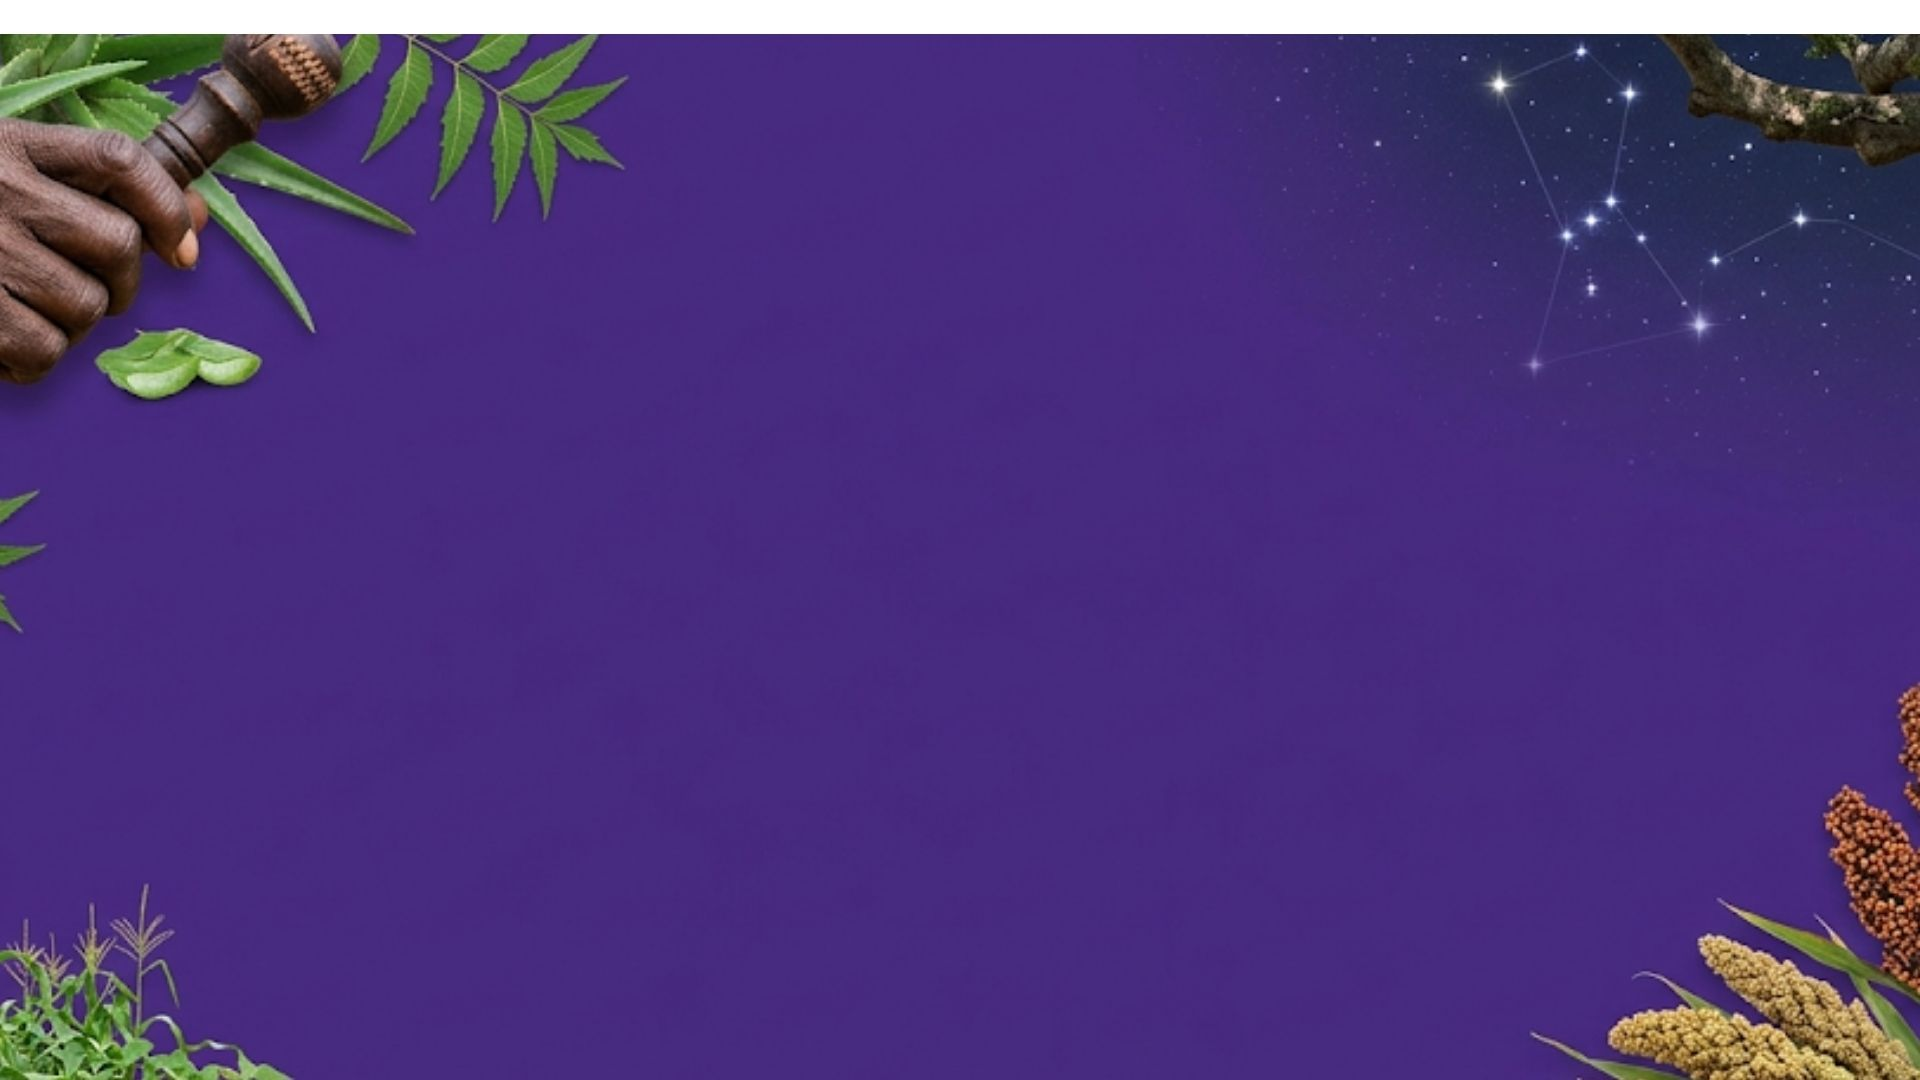
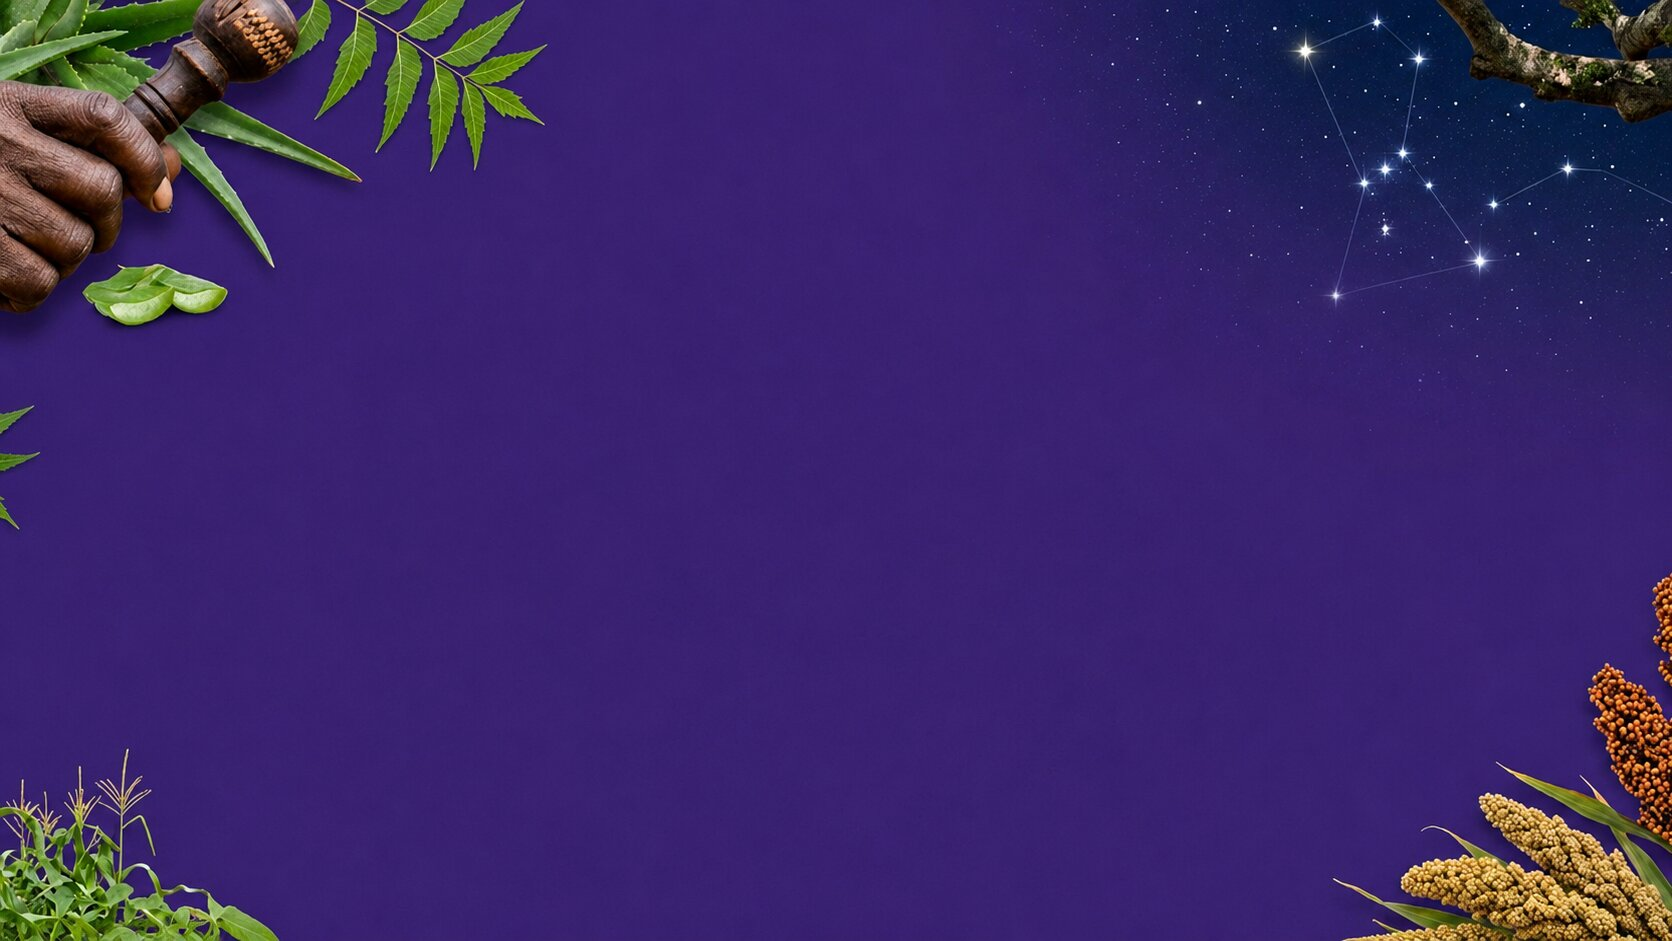
Substrand2:Complete

diff --git a/Strand 3 People and Relationships/Indigenous Knowledge Systems in African Societies/Lesson3/ACTIVITY1/css/styles.css b/Strand 3 People and Relationships/Indigenous Knowledge Systems in African Societies/Lesson3/ACTIVITY1/css/styles.css
@@ -732,32 +732,22 @@ body {
   .option-button { font-size: 1rem; padding: 1rem;}
   
   .completion-btn {
-    font-family: var(--header-font);
-    background: #fbb03b;
-    color: #fff;
-    font-weight: 900;
-    font-size: clamp(1.3rem, 2.5vmin, 2rem);
-    border: 3px solid #fff;
-    border-radius: 3rem;
-    padding: clamp(0.7rem, 1.5vmin, 0.75rem) clamp(1.25rem, 3vmin, 2rem);
-    cursor: pointer;
-    transition: all 0.2s;
-    box-shadow: 0 4px 8px rgba(0, 0, 0, 0.2);
-    text-shadow: 0 2px 0 #b88b2a;
-    text-decoration: none;
-    min-width: 140px;
+    padding: 0.5rem 1.5rem;
   }
-         #completion-image {
-        width: 70%;
-  }
+   #completion-image {
+        width: 60%;
+    }
 }
 @media (max-width: 991px) and (max-height: 345px) {
-      .scenario-story {
+    .scenario-story {
         font-size: 1.3rem;
     }
-        .option-button {
+    .option-button {
         font-size: 1.2rem;
         padding: 1rem;
+    }
+    #completion-image {
+        width: 51%;
     }
 }
 @media (max-width: 768px) {
@@ -793,6 +783,9 @@ body {
         padding: 0.9rem;
     }
         
+    #completion-image {
+    width: 64%;
+}
 }
 @media (max-width:991px) and (min-height:500px) {
     #completion-image {
@@ -804,5 +797,9 @@ body {
         .option-button {
         font-size: 0.9rem;
         padding: 0.7rem;
+    }
+    #both-matched .drag-item {
+      font-size: 0.8rem;
+      padding:0.2rem;
     }
 }

diff --git a/Strand 3 People and Relationships/Indigenous Knowledge Systems in African Societies/Lesson3/ACTIVITY3/css/styles.css b/Strand 3 People and Relationships/Indigenous Knowledge Systems in African Societies/Lesson3/ACTIVITY3/css/styles.css
@@ -627,8 +627,8 @@ body {
   flex-direction: column;
   justify-content: center;
   align-items: center;
-  gap: 1rem;
   padding: 0.5rem;
+  gap: 0.5rem;
 }
 
 .completion-title-banner {
@@ -749,7 +749,7 @@ body {
   font-family: var(--header-font);
   color: #fff;
   font-weight: 900;
-  font-size: clamp(0.9rem, 2.5vmin, 1.2rem);
+  font-size: clamp(1.1rem, 2.5vmin, 1.2rem);
   border: 3px solid #fff;
   border-radius: 3rem;
   padding: clamp(0.5rem, 1.5vmin, 0.75rem) clamp(1.25rem, 3vmin, 2rem);
@@ -829,6 +829,15 @@ body {
   #takeaways-table td {
     padding: 8px;
   }
+  .completion-btn {
+    font-size: 1.1rem;
+    padding: 0.5rem 1.5rem;
+  }
+  #completion-image {
+    width: 78%;}
+  .venn-workspace {
+    padding:0.2rem;
+  }
 }
 @media (max-width: 991px) and (max-height: 499px) {
   #takeaways-overlay .modal {
@@ -839,6 +848,7 @@ body {
 @media (max-width: 768px) {
   .venn-workspace {
     grid-template-columns: 140px 1fr 140px;
+    padding:0.2rem;
   }
   .drag-item {
     font-size: 1.15rem;
@@ -850,6 +860,9 @@ body {
   #completion-overlay .modal {
     padding: 1rem;
   }
+      #completion-image {
+        width: 74%;
+    }
 }
 
 @media (max-width: 650px) {
@@ -878,4 +891,12 @@ body {
   .completion-buttons {
     flex-direction: column;
   }
+}
+
+@media (width<=991px) and (height>=500px) {
+   #both-matched .drag-item {
+      font-size: 0.8rem;
+      padding:0.2rem;
+    }
+  
 }

diff --git a/Strand 3 People and Relationships/Indigenous Knowledge Systems in African Societies/Lesson4/ACTIVITY2/css/styles.css b/Strand 3 People and Relationships/Indigenous Knowledge Systems in African Societies/Lesson4/ACTIVITY2/css/styles.css
@@ -114,9 +114,8 @@ button {
   font-size: 3.2rem;
   font-family: var(--header-font);
   font-weight: 600;
-}    .completion-image-container {
-        width: 55%;
-    }
+} 
+
 
 .start-button {
   background: var(--secondary-color);
@@ -432,12 +431,15 @@ button {
   font-size: 1.1rem;
   font-weight: 500;
   color: var(--text-color-dark);
-  line-height: 1.5;
+  line-height: 1.2;
   resize: none;
-  padding: 0.75rem 1rem;
+  padding: 0.45rem 0.75rem;
   -webkit-user-select: auto;
   user-select: auto;
   transition: border-color 0.2s;
+}
+.journal-textarea::-webkit-scrollbar{
+  display: none;
 }
 
 .journal-textarea:focus {
@@ -691,7 +693,7 @@ button {
   justify-content: center;
   align-items: center;
   width: 100%;
-  max-width: 650px;
+  max-width: 800px;
   overflow: hidden;
   box-shadow: 0 10px 20px rgba(0, 0, 0, 0.3);
 }
@@ -853,7 +855,7 @@ button {
     font-size: 3vmin;
   }
   .completion-image-container {
-    width: 45%;
+    width: 63%;
   }
 
   #bottom-controls {
@@ -891,8 +893,7 @@ button {
 }
 @media (max-width:768px) {
     .completion-image-container {
-        width: 55%;
-    }
+        width: 58%;}
     
 }
 @media (max-width: 480px) {
@@ -935,7 +936,7 @@ button {
 
 @media(max-width:991px) and (min-height:500px){
     .completion-image-container {
-        width: 51%;
+        width: 54%;
     }
 }
 

diff --git a/Strand 3 People and Relationships/Indigenous Knowledge Systems in African Societies/Lesson2/ACTIVITY2/css/styles.css b/Strand 3 People and Relationships/Indigenous Knowledge Systems in African Societies/Lesson2/ACTIVITY2/css/styles.css
@@ -336,7 +336,7 @@ body {
   border: 2px solid #e2e8f0;
   border-radius: 1rem;
   padding: clamp(0.4rem, 1.2vmin, 0.8rem);
-  font-size: clamp(0.95rem, 1.5vmin, 1.1rem);
+  font-size: clamp(1.05rem, 1.5vmin, 1.1rem);
   font-weight: 600;
   color: var(--text-color-dark);
   display: flex;
@@ -435,7 +435,7 @@ body {
   border-radius: 1.25rem;
   text-align: center;
   width: 90%;
-  max-width: 600px;
+  max-width: 700px;
   animation: slideIn 0.4s cubic-bezier(0.175, 0.885, 0.32, 1.275);
   position: relative;
   box-shadow: 0 20px 40px rgba(0, 0, 0, 0.3);
@@ -444,7 +444,7 @@ body {
 @keyframes fadeIn { from { opacity: 0; } to { opacity: 1; } }
 @keyframes slideIn { from { transform: translateY(30px) scale(0.95); opacity: 0; } to { transform: translateY(0) scale(1); opacity: 1; } }
 
-.modal h2 { font-size: 2.2rem; font-weight: 600; margin-bottom: 1.5rem; font-family: var(--header-font); }
+.modal h2 { font-size: 2.2rem; font-weight: 600; margin-bottom: .5rem; font-family: var(--header-font); }
 .modal p, .modal li { font-size: 1.2rem; line-height: 1.4; color: var(--text-color-dark); }
 
 #activity-intro-overlay .modal { border-top: 8px solid var(--primary-color); }
@@ -453,8 +453,8 @@ body {
 
 #instructions-overlay .modal { border-top: 8px solid var(--primary-color); }
 #instructions-overlay .modal h2 { color: var(--primary-color); }
-#instructions-overlay .modal ol { text-align: left; padding-left: 2rem; font-size: 1.2rem; margin-bottom: 1.5rem; }
-#instructions-overlay .modal li { margin-bottom: 0.75rem; }
+#instructions-overlay .modal ol { text-align: left; padding-left: 2rem; font-size: 1.2rem;  }
+#instructions-overlay .modal li { margin-bottom: 0.65rem; }
 
 #hint-overlay .modal { border-top: 8px solid var(--secondary-color); }
 #hint-overlay .modal h2 { color: var(--secondary-color); display: flex; align-items: center; justify-content: center; gap: 0.75rem; }

diff --git a/Strand 3 People and Relationships/Indigenous Knowledge Systems in African Societies/Lesson1/ACTIVITY1/css/styles.css b/Strand 3 People and Relationships/Indigenous Knowledge Systems in African Societies/Lesson1/ACTIVITY1/css/styles.css
@@ -512,9 +512,9 @@ button {
   flex: 0 0 auto;
 }
 .info-item p {
-  color: var(--text-color-dark);
-  font-size: 1.3rem;
-  line-height: 1.5;
+    color: var(--text-color-dark);
+    font-size: 1.2rem;
+    line-height: 1.3;
 }
 #scenario-title {
   font-size: 2.35rem;
@@ -594,7 +594,6 @@ button {
   gap: 1rem;
   max-width: 80rem;
   padding: 0 2rem;
-  margin-top: 2rem;
 }
 .completion-text {
   font-size: 1.5rem;

diff --git a/Strand 3 People and Relationships/Indigenous Knowledge Systems in African Societies/Lesson4/ACTIVITY2/index.html b/Strand 3 People and Relationships/Indigenous Knowledge Systems in African Societies/Lesson4/ACTIVITY2/index.html
@@ -112,7 +112,7 @@
               id="completion-screenshot"
               src=""
               alt="Activity Complete Screenshot"
-            />Appreciate the Indigenous Knowledge Systems in the Society
+            />
           </div>
           
           <div class="completion-buttons nav-buttons">
@@ -385,7 +385,8 @@
           progressText.textContent = "1 / 1";
 
           setTimeout(() => {
-            const targetContainer = document.getElementById("game-screen");
+            // Target the exact same container as the Save functionality
+            const targetContainer = document.getElementById("journal-container");
             
             // Replace form elements with static text
             const ids = ['entry1', 'entry2', 'entry3', 'entry4'];

diff --git a/Strand 3 People and Relationships/Indigenous Knowledge Systems in African Societies/Lesson1/ACTIVITY2/css/styles.css b/Strand 3 People and Relationships/Indigenous Knowledge Systems in African Societies/Lesson1/ACTIVITY2/css/styles.css
@@ -695,7 +695,6 @@ body {
   background: transparent;
   box-shadow: none;
   width: auto;
-  max-width: 800px;
   display: flex;
   flex-direction: column;
   justify-content: center;
@@ -705,8 +704,7 @@ body {
 }
 
 #completion-image {
-  width: clamp(300px, 75%, 800px);
-  max-width: 85%;
+  width: 100%;
   height: auto;
   border: 3px solid var(--secondary-color);
   border-radius: 15px;

diff --git a/Strand 3 People and Relationships/Indigenous Knowledge Systems in African Societies/Lesson1/index.html b/Strand 3 People and Relationships/Indigenous Knowledge Systems in African Societies/Lesson1/index.html
@@ -504,7 +504,7 @@
             // window.location.href = 'activity1/index.html';
             // window.location.href = 'games/soil-conservation-activity/index.html';
             // window.location.href = 'https://your-game-domain.com/activity1';
-            window.location.href = 'Lesson1/index.html'; // <- CHANGE THIS URL
+            window.location.href = 'ACTIVITY1/index.html'; // <- CHANGE THIS URL
         }
 
         // Close popup when pressing Escape key

diff --git a/Strand 3 People and Relationships/Indigenous Knowledge Systems in African Societies/Lesson4/ACTIVITY1/css/styles.css b/Strand 3 People and Relationships/Indigenous Knowledge Systems in African Societies/Lesson4/ACTIVITY1/css/styles.css
@@ -876,7 +876,7 @@ body {
     width: 43%;
   }
   #completion-image {
-    width: 50%;
+    width: 60%;
   }
 }
 